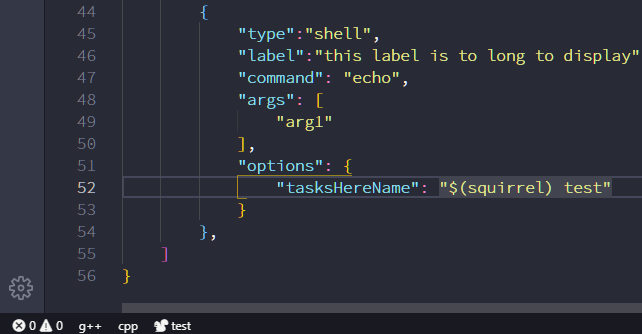
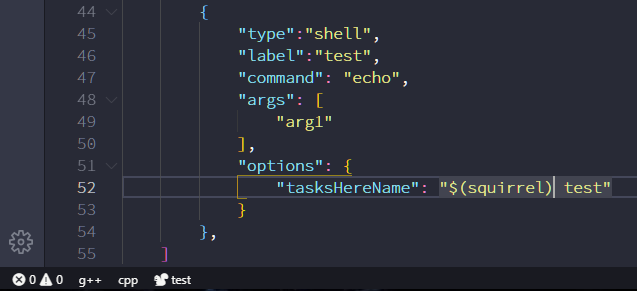
support color for task name

diff --git a/src/extension.ts b/src/extension.ts
@@ -146,6 +146,7 @@ function loadTasks(context: vscode.ExtensionContext) {
 
 	let conf: any = {};
 
+	// get each task config
 	for (const workspaceFolder of vscode.workspace.workspaceFolders!) {
 		const config = vscode.workspace.getConfiguration('tasks', workspaceFolder.uri);
 		if (!config || !Array.isArray(config.tasks)) {
@@ -157,12 +158,15 @@ function loadTasks(context: vscode.ExtensionContext) {
 			if (id) {
 				conf[id] = {
 					display: undefined,
-					name: undefined
+					name: undefined,
+					color: undefined
 				};
 				let display = getValue2(task, config, "options", "tasksHereDisplay");
 				let name = getValue2(task, config, "options", "tasksHereName");
+				let color = getValue2(task, config, "options", "tasksHereColor");
 				conf[id]["display"] = typeof display === 'string'? display : undefined;
-				conf[id]["name"] = typeof name === 'string'? name : undefined;
+				conf[id]["name"] = typeof name === 'string' ? name : undefined;
+				conf[id]["color"] = typeof color === 'string' ? color : undefined;
 			}
 		}
 	}
@@ -188,6 +192,7 @@ function loadTasks(context: vscode.ExtensionContext) {
 			bar.command = 'alexzshl.tasksHere.exec-task-' + commandIndex++;
 			// bar.command = 'extension.alexzshl.vscodeTasks.' + task.name;
 			bar.tooltip = 'Task - ' + task.name;
+			bar.color = conf[taskId]["color"];
 			bar.show();
 
 			statusBarArray.push(bar);
@@ -217,13 +222,15 @@ function activate(context: vscode.ExtensionContext) {
 		});
 	}));
 
+	context.subscriptions.push(vscode.commands.registerCommand("extension.taskshere.refresh", async () => {
+		loadTasks(context);
+	}));
+
 	context.subscriptions.push(vscode.workspace.onDidChangeConfiguration(() => {
-		// console.log("onDidChangeConfiguration...");
 		loadTasks(context);
 	}));
 
 	context.subscriptions.push(vscode.workspace.onDidChangeWorkspaceFolders(() => {
-		// console.log("onDidChangeWorkspaceFolders...");
 		loadTasks(context);
 	}));
 

diff --git a/README.md b/README.md
@@ -2,7 +2,7 @@
 
 Load VSCode Tasks to Status Bar
 
-This extension evolved from **extension:actboy168.tasks**
+This extension evolved from *extension:actboy168.tasks*
 
 ## Preview
 
@@ -12,7 +12,7 @@ This extension evolved from **extension:actboy168.tasks**
 
 We do some general configuration through the **settings.json**, as most extensions do.And also, for ease of configuration,we do some special configuration through the **tasks.json** for each task.If the configuration is done in the tasks.json, I will identify it above the code or image
 
-This extension will show all vscode-tasks on the status bar.If you want to hide a task, add the following configuration:
+This extension will show all vscode-tasks on the status bar.If you want to hide a task, add an configuration like this:
 
 [*tasks.json*]
 
@@ -30,7 +30,7 @@ This extension will show all vscode-tasks on the status bar.If you want to hide 
         }
 ```
 
-This extension uses the label of the task as the display name on the status bar. How ever, if the task name is too long to fit for display and you don't want to change it, you can customize the name with the following configuration:
+This extension uses the label of the task as the display name on the status bar. How ever, if the task name is too long to fit for display and you don't want to change it, you can customize the task name by add an configuration like this:
 
 [*tasks.json*]
 
@@ -51,7 +51,7 @@ This extension uses the label of the task as the display name on the status bar.
         }
 ```
 
-You can add an icon to the task name with a special syntax, which will appear as an icon on the status bar. This feature is natively provided by vscode
+You can "add" a built-in icon to the task name with a special syntax, which will appear as an icon on the status bar
 
 [*tasks.json*]
 
@@ -72,3 +72,28 @@ You can add an icon to the task name with a special syntax, which will appear as
 ![icon-in-label](resource/image/text+icon.png)
 
 You can find a list of built-in icons provided by VSCode on this page: [icons-in-labels](https://code.visualstudio.com/api/references/icons-in-labels)
+
+Specify the color of the task name.You can use legal color expressions supported by CSS. For example: "DeepPink", "#00f", "#adff2f". If you are not sure, you can use the search engine to search for the keyword "CSS color".Note that the color of the icon will change as well.
+
+[*tasks.json*]
+
+```json
+       {
+            "type": "shell",
+            "label": "cpp.exe build active file",
+            "command": "C:\\MinGW64\\x86_64-8.1.0-release-win32-seh-rt_v6-rev0\\mingw64\\bin\\cpp.exe",
+            "args": [
+                "-g",
+                "${file}",
+                "-o",
+                "${fileDirname}\\${fileBasenameNoExtension}.exe"
+            ],
+            "options": {
+                "cwd": "C:\\MinGW64\\x86_64-8.1.0-release-win32-seh-rt_v6-rev0\\mingw64\\bin",
+                "tasksHereName": "cpp",
+                "tasksHereColor": "DeepPink"
+            }
+        }
+```
+
+![label_color](resource\image\label_color.png)
